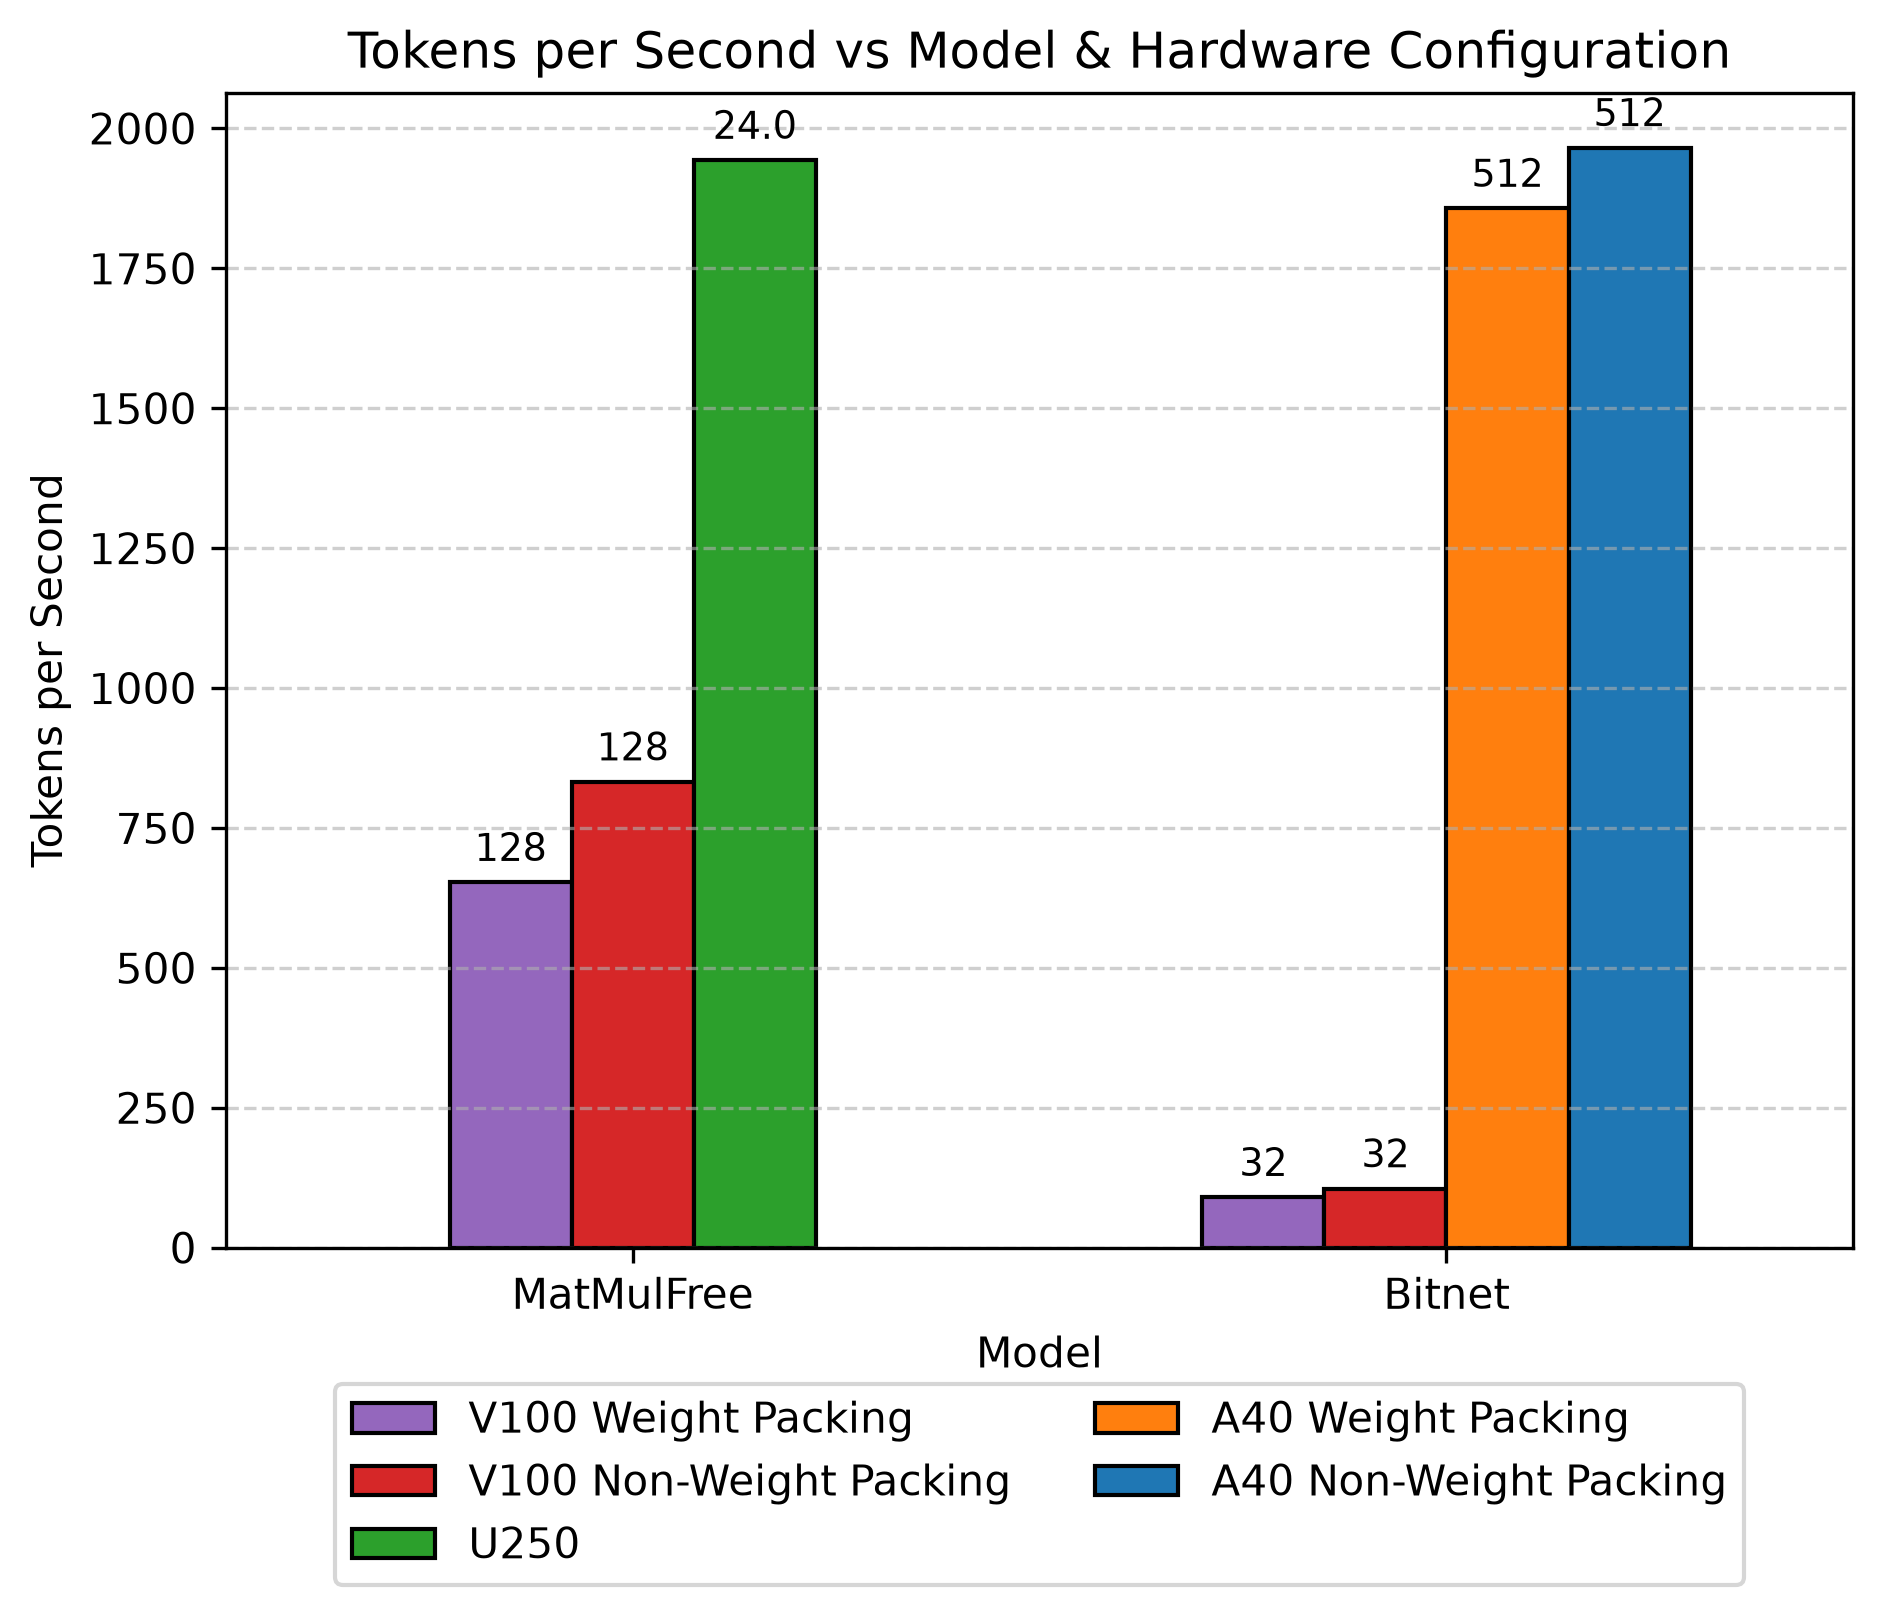
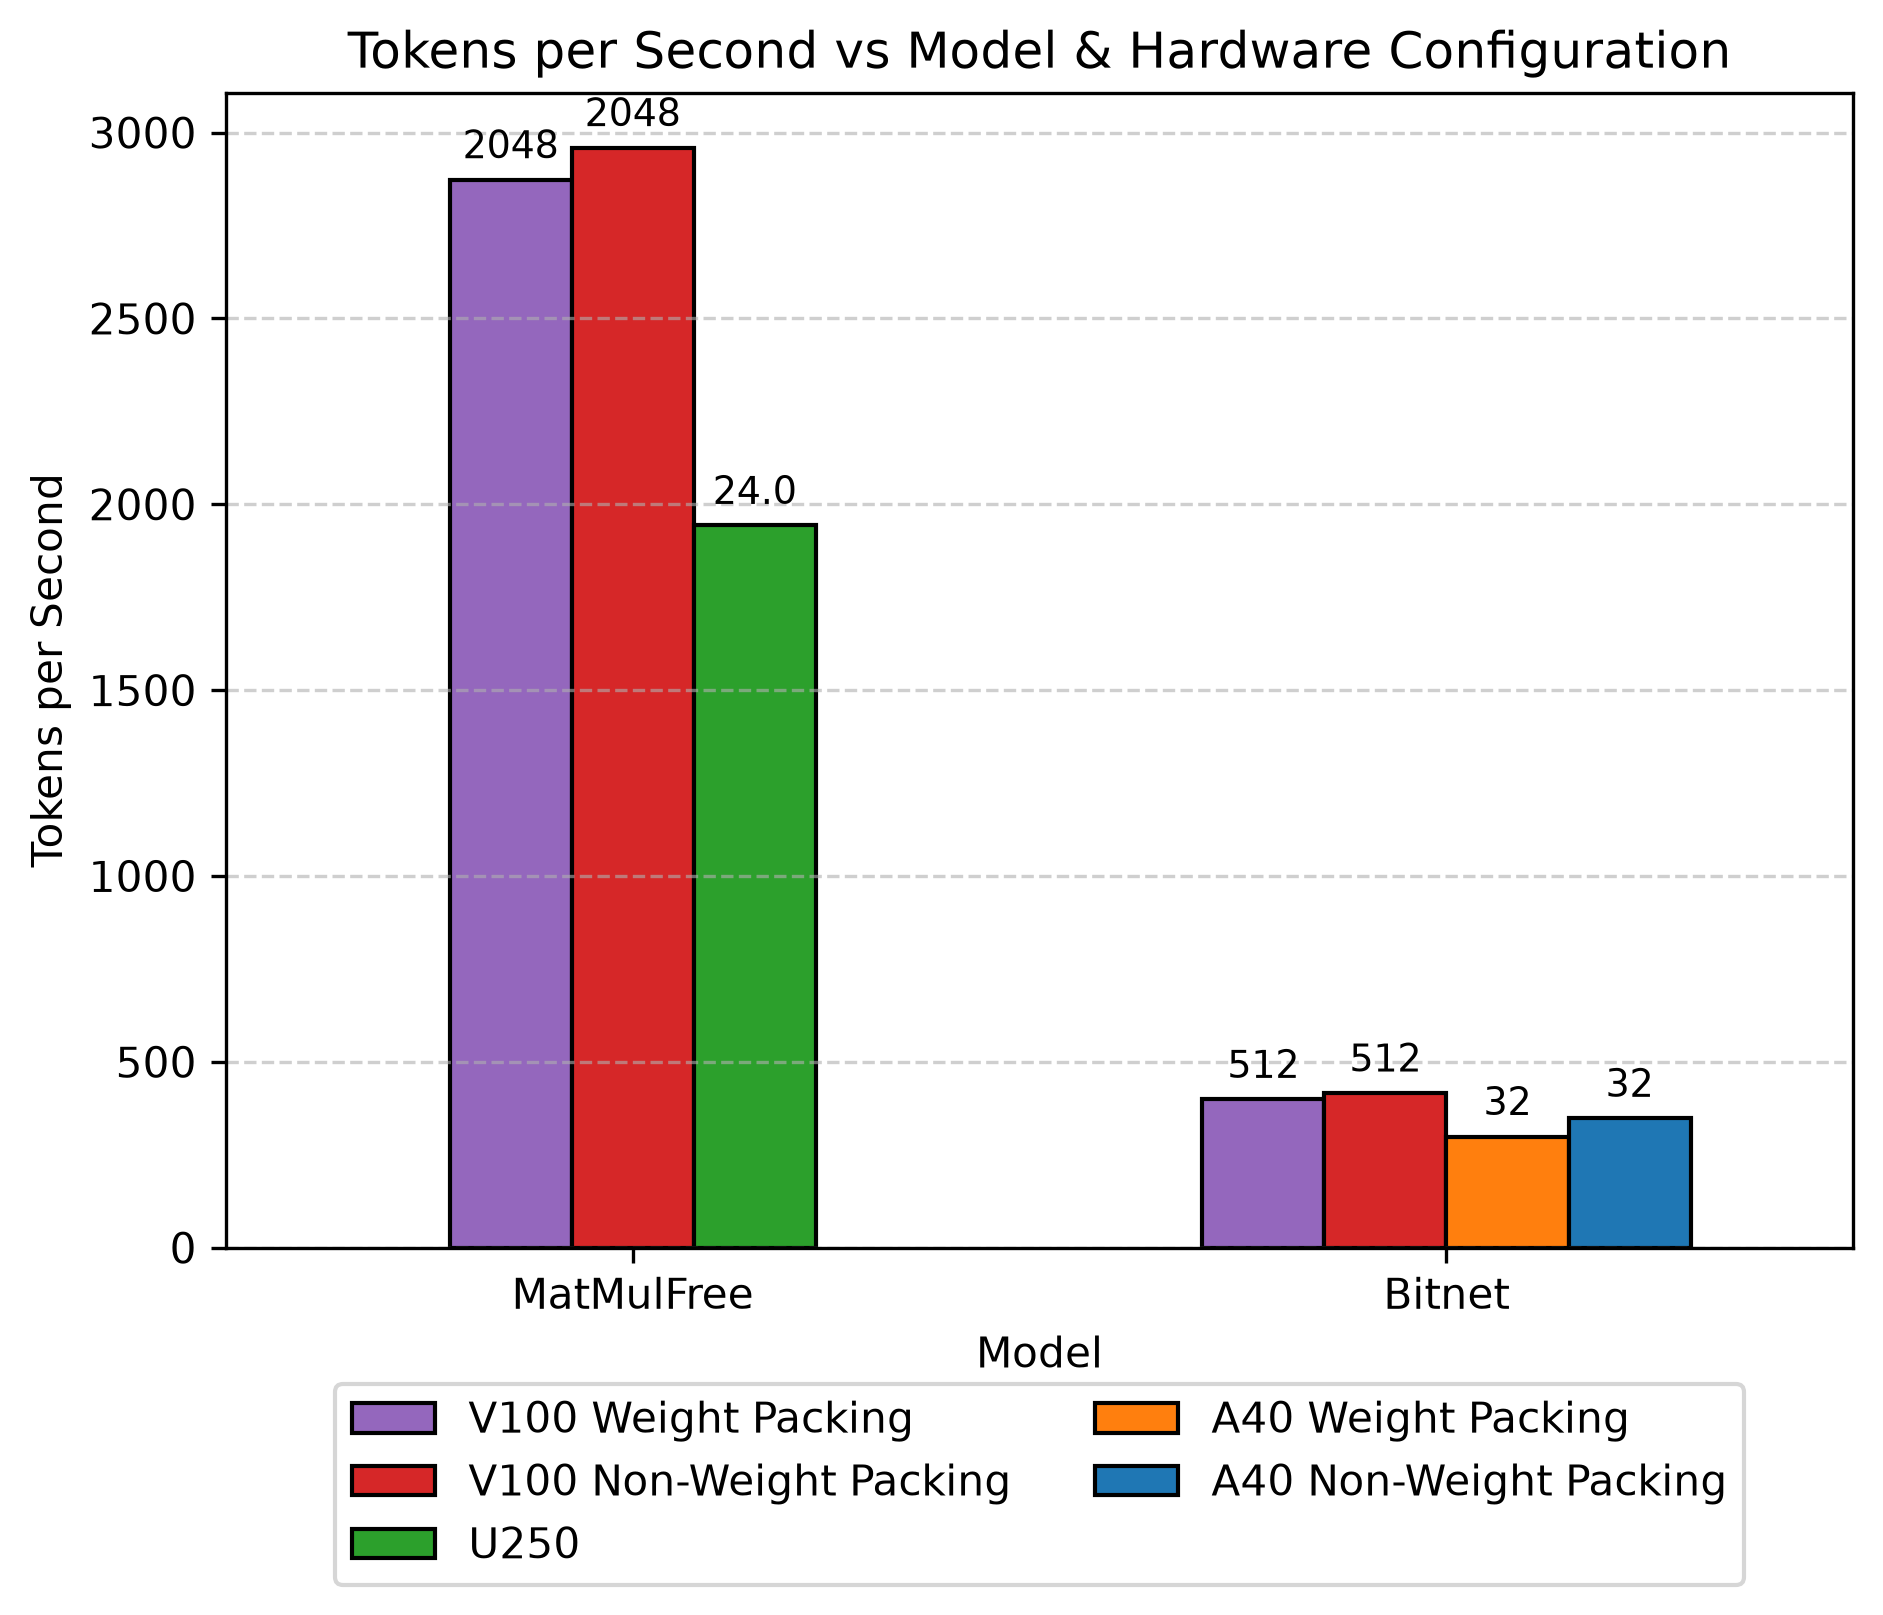
updating

diff --git a/paper/paper_graphs.py b/paper/paper_graphs.py
@@ -6,7 +6,7 @@ import pandas as pd
 import numpy as np 
 from matplotlib.lines import Line2D   # only needed for a custom legend (optional)
 
-GPU_MATMUL_FILE = "paper_csv/mmfree.csv"
+GPU_MATMUL_FILE = "paper_csv/old_mmfree.csv"
 GPU_BITNET_FILE = "paper_csv/bitnet.csv"
 FPGA_FILE = "paper_csv/fpga.csv"
 PROFILING_FILE = "paper_profiling/summary.csv"
@@ -21,6 +21,7 @@ BS_COL = "batch size"
 PACKING_COL = "Weight Packing"
 DEVICE_COL = "device"
 TTFT_COL = "Avg Prefill Time (s)"
+DECODE_COL = "Avg Single Deocde Time (s)"
 SEQ_LEN = "Sequence Length"
 OUT_LEN = "Output Length"
 
@@ -28,6 +29,9 @@ RIDGER_MODEL_ID = "ridger/MMfreeLM-2.7B"
 BITNET_MODEL_ID = "microsoft/bitnet-b1.58-2B-4T"
 SCALED_MMFREE_MODEL_ID = "100B MatMulFreeLM"
 SCALED_BITNET_MODEL_ID = "Scaled Up Bitnet"
+
+NAIVE_PACKING = "CompressedType.NAIVE"
+NO_PACKING = 'CompressedType.FLOAT16'
 
 V100_DEVICE_ID = "Tesla V100-SXM2-32GB"
 MULTI_V100_DEVICE_ID = "Tesla V100-SXM2-32GB,Tesla V100-SXM2-32GB,Tesla V100-SXM2-32GB,Tesla V100-SXM2-32GB,Tesla V100-SXM2-32GB,Tesla V100-SXM2-32GB,Tesla V100-SXM2-32GB,Tesla V100-SXM2-32GB"
@@ -224,19 +228,26 @@ def scaled_performance_bar_chart(scaled_matmul_gpu_df, scaled_bitnet_gpu_df):
     print(f'✅ Scaled Performance Graphs saved to {out_path}')
 
 def latency_requirements(matmul_gpu_df, fpga_df): 
-    v100_packing_ttft = get_col_from_df(matmul_gpu_df, V100_DEVICE_ID, RIDGER_MODEL_ID, AVG_RUNTIME, packing=True)
+    extened_df = extend_dataframe(matmul_gpu_df)
+    
+    v100_packing_runtime = get_col_from_df(matmul_gpu_df, V100_DEVICE_ID, RIDGER_MODEL_ID, AVG_RUNTIME, packing=True)
     v100_packing_tps = get_col_from_df(matmul_gpu_df, V100_DEVICE_ID, RIDGER_MODEL_ID, TPS_COL, packing=True)
 
-    v100_no_packing_ttft = get_col_from_df(matmul_gpu_df, V100_DEVICE_ID, RIDGER_MODEL_ID, AVG_RUNTIME, packing=False)
+    extended_v100_packing_runtime = get_col_from_df(extened_df, V100_DEVICE_ID, RIDGER_MODEL_ID, AVG_RUNTIME, packing=True)
+    extended_v100_packing_tps = get_col_from_df(extened_df, V100_DEVICE_ID, RIDGER_MODEL_ID, TPS_COL, packing=True)
+        
+    v100_no_packing_runtime = get_col_from_df(matmul_gpu_df, V100_DEVICE_ID, RIDGER_MODEL_ID, AVG_RUNTIME, packing=False)
     v100_no_packing_tps = get_col_from_df(matmul_gpu_df, V100_DEVICE_ID, RIDGER_MODEL_ID, TPS_COL, packing=False)
 
-    u250_ttft = get_col_from_df(fpga_df, U250_DEVICE_ID, RIDGER_MODEL_ID, AVG_RUNTIME)
+    
+    u250_runtime = get_col_from_df(fpga_df, U250_DEVICE_ID, RIDGER_MODEL_ID, AVG_RUNTIME)
     u250_tps = get_col_from_df(fpga_df, U250_DEVICE_ID, RIDGER_MODEL_ID, TPS_COL)
 
     fig, ax = plt.subplots(figsize=(7, 5))
-    ax.plot(v100_packing_tps, v100_packing_ttft, label = "V100 Weight Packing")
-    ax.plot(v100_no_packing_tps, v100_no_packing_ttft, label = "V100 No Weight Packing")
-    ax.plot(u250_tps, u250_ttft, label = "U250")
+    ax.plot(v100_packing_tps, v100_packing_runtime, label = "V100 Weight Packing")
+    ax.plot(extended_v100_packing_tps, extended_v100_packing_runtime, label = "V100 Weight Packing", linestyle='--')
+    ax.plot(v100_no_packing_tps, v100_no_packing_runtime, label = "V100 No Weight Packing")
+    ax.plot(u250_tps, u250_runtime, label = "U250")
 
     ax.set_xlabel('Tokens per Second')
     ax.set_ylabel('End to End Latency (s)')
@@ -246,7 +257,62 @@ def latency_requirements(matmul_gpu_df, fpga_df):
     out_path="paper_graphs/latency_graph.png"
     fig.savefig(out_path, dpi=300, bbox_inches='tight')
     print(f'✅ Latency graph saved to {out_path}')
+def extend_dataframe(df):
 
+    packing_configs = [NAIVE_PACKING, NO_PACKING]
+    models = [RIDGER_MODEL_ID, BITNET_MODEL_ID, SCALED_MMFREE_MODEL_ID, SCALED_BITNET_MODEL_ID]
+    devices = [V100_DEVICE_ID, MULTI_V100_DEVICE_ID, A40_DEVICE_ID, U250_DEVICE_ID]
+    
+    # Start with base rows - get max batch size for each combination
+    base_rows = []
+    
+    for packing_config in packing_configs: 
+        for model in models: 
+            for device in devices:
+                # Filter for this combination
+                mask = (df[MODEL_COL] == model) & (df[DEVICE_COL] == device)
+                
+                if PACKING_COL in df.columns:
+                    mask &= (df[PACKING_COL] == packing_config)
+                
+                filtered = df[mask]
+                
+                if filtered.empty:
+                    continue
+                
+                # Get row with max batch size
+                max_bs_row = filtered.loc[filtered[BS_COL].idxmax()]
+                base_rows.append(max_bs_row)
+    
+    if not base_rows:
+        return pd.DataFrame()
+    
+    # Create the base dataframe
+    extended_df = pd.DataFrame(base_rows).reset_index(drop=True)
+    
+    # Generate extrapolated rows for each base row
+    all_new_rows = []
+    
+    for _, base_row in extended_df.iterrows():
+        current_bs = base_row[BS_COL]
+        multiplier = 2
+        
+        while current_bs * multiplier <= 3000:
+            new_row = base_row.copy()
+            new_row[BS_COL] = current_bs * multiplier
+            new_row[AVG_RUNTIME] *= multiplier
+            new_row[TTFT_COL] *= multiplier
+            # Recalculate TPS based on your formula
+            new_row[TPS_COL] = (new_row[BS_COL]*1000) / (new_row[TTFT_COL] + (new_row[DECODE_COL] * 999))
+            all_new_rows.append(new_row)
+            multiplier *= 2
+    
+    # Add all new rows at once
+    if all_new_rows:
+        new_df = pd.DataFrame(all_new_rows)
+        extended_df = pd.concat([extended_df, new_df], ignore_index=True)
+    extended_df.to_csv("test.csv", index=False)
+    return extended_df
 
 def runtime_fraction(profiling_df):
 
@@ -270,8 +336,6 @@ def runtime_fraction(profiling_df):
         "BitNetRMSNorm", "ReLUSquaredActivation", "BitNetRotaryEmbedding"
     ]
     sections = [section + " runtime(ns)" for section in sections]
-    print(sections)
-    print(profiling_df)
 
     # 6. Calculate 'Other runtime' so the total equals exactly 100% of workload runtime
     profiling_df['Other runtime(ns)'] = profiling_df['workload runtime(ns)'] - profiling_df[sections].sum(axis=1)

diff --git a/plot_roofline.py b/plot_roofline.py
@@ -51,9 +51,10 @@ gpu_roofs = [
   # {"name" : "(H100) Peak 16-Bit Floating Point Performance with Tensor Cores (assuming sparsity)", "val" : 1979000},
   # {"name" : "(H100) Peak 16-Bit Floating Point Performance with Tensor Cores (no sparsity)", "val" :         1318000},
   # {"name" : "(V100) Peak 16-Bit Floating Point Performance with Tensor Cores (no sparsity)", "val" :           15700},
+  {"name" : "(rtx6000) Peak 16-Bit Floating Point Performance with Tensor Cores (no sparsity)", "val" :           5038},
   
   # {"name" : "(H100) Peak 16-Bit Floating Point Performance with Streaming Multiprocessors", "val" : 120000},
-  {"name" : "rtx 3090ti Peak 16-Bit Floating Point Performance with Tensor Cores", "val" : 79994.88},
+  # {"name" : "rtx 3090ti Peak 16-Bit Floating Point Performance with Tensor Cores", "val" : 79994.88},
   # {"name" : "Jetson Nano Orin Peak 16-Bit Floating Point Performance with Tensor Cores", "val" : 17000},
 ]
 
